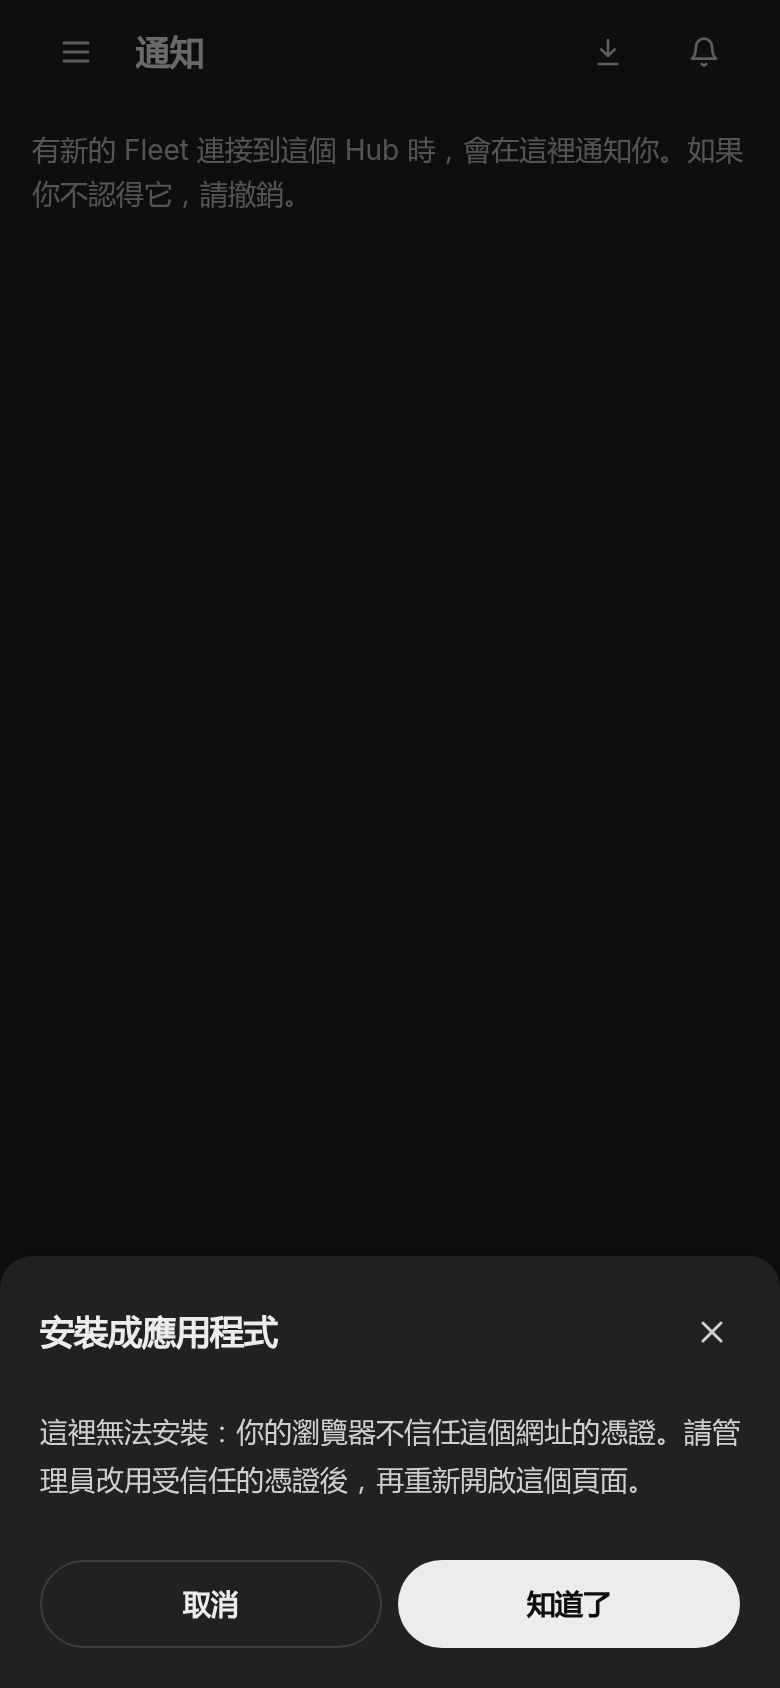
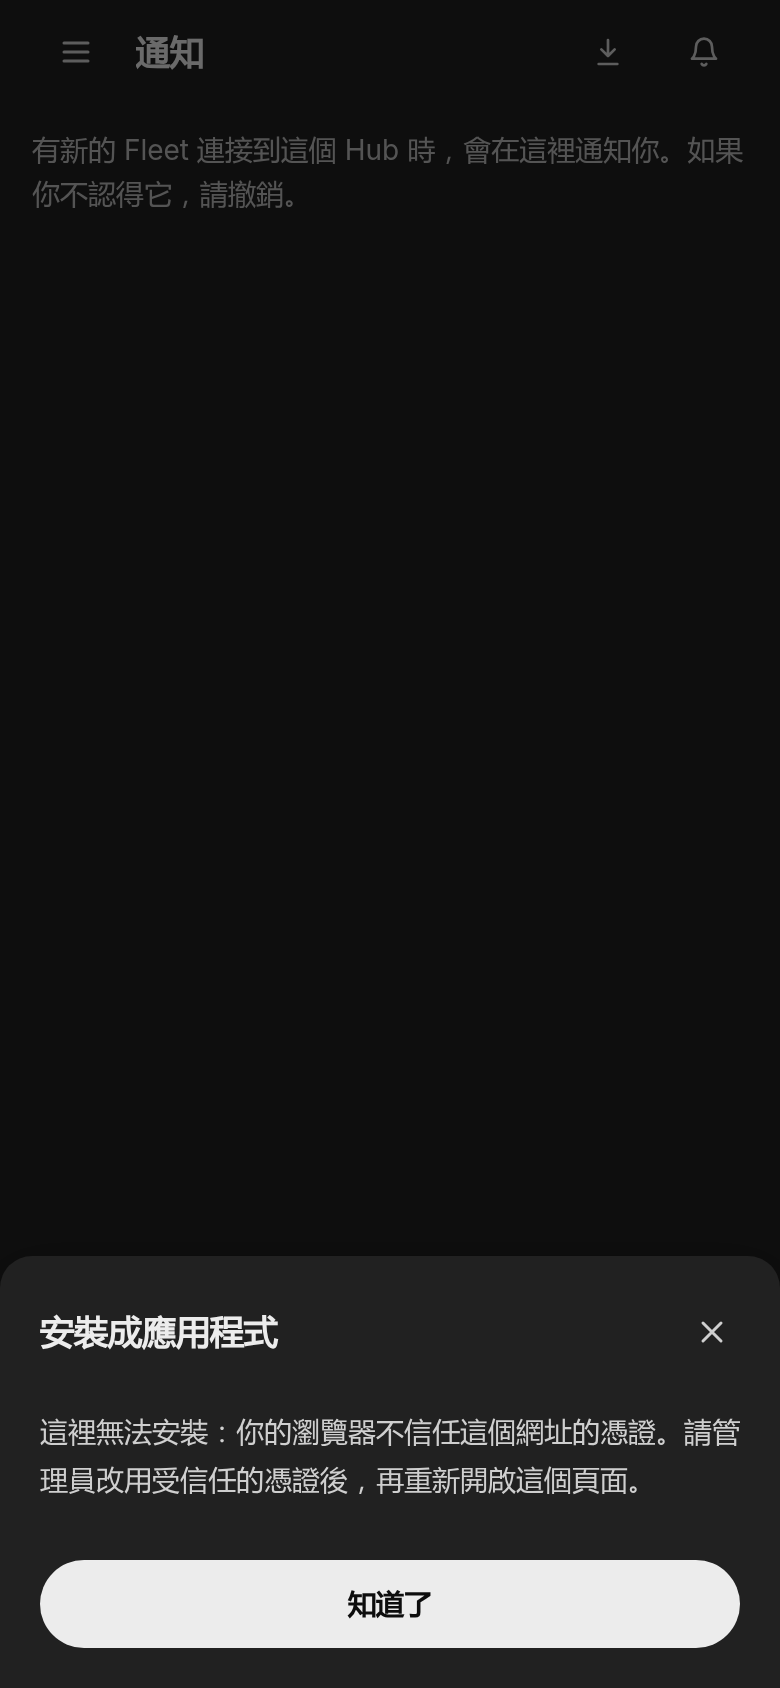
feat(web): install the dashboard and the Hub as an app — a service worker that caches nothing, and an Install hint that says why where it can't (S-255)

Changed region(s): [[0.0308, 0.9242, 0.5538, 0.9858], [0.6769, 0.9242, 0.7692, 0.955]]

diff --git a/src/ui/shared/ui-confirm.js b/src/ui/shared/ui-confirm.js
@@ -14,11 +14,12 @@ let seq = 0;
  * Ask. Resolves true for the confirm button, false for Cancel, Esc, the backdrop or ×.
  * `message` may hold blank lines (paragraphs); it is shown as text.
  */
-export function confirmDialog({ title, message, confirmLabel, danger = false, more = null, even = false } = {}) {
+/** S-255: `notice` — words to read, not a question: one button, no Cancel (Esc, the backdrop and × still close it). */
+export function confirmDialog({ title, message, confirmLabel, danger = false, more = null, even = false, notice = false } = {}) {
   return new Promise((resolve) => {
     // M-3387: `more` { label, lines } — a list closed under the text until opened (e.g. every tool name a switch stops).
     const extra = more && more.label && Array.isArray(more.lines) && more.lines.length ? { label: String(more.label), lines: more.lines.map(String) } : null;
-    const item = { id: ++seq, title: title || t("app.confirmTitle"), message: String(message || ""), confirmLabel: confirmLabel || t("app.confirmOk"), danger, more: extra, even: !!even, resolve };
+    const item = { id: ++seq, title: title || t("app.confirmTitle"), message: String(message || ""), confirmLabel: confirmLabel || t("app.confirmOk"), danger, more: extra, even: !!even, notice: !!notice, resolve };
     confirmStore.set((s) => ({ queue: [...s.queue, item] }));
   });
 }
@@ -39,7 +40,7 @@ export function ConfirmHost() {
   const paragraphs = q.message.split(/\n{2,}/);
   // `even`: the two buttons share the row's width on every screen (as a phone's bottom sheet always does).
   return html`<${Dialog} key=${q.id} title=${q.title} cls=${q.even ? "dlg-even" : ""} onClose=${() => answerConfirm(q.id, false)}
-    actions=${html`<button type="button" class="btn" onClick=${() => answerConfirm(q.id, false)}>${t("app.cancel")}</button>
+    actions=${html`${q.notice ? null : html`<button type="button" class="btn" onClick=${() => answerConfirm(q.id, false)}>${t("app.cancel")}</button>`}
       <button type="button" class=${`btn ${q.danger ? "btn-danger" : "btn-primary"}`} data-confirm="yes" onClick=${() => answerConfirm(q.id, true)}>${q.confirmLabel}</button>`}>
     ${paragraphs.map((p, i) => html`<p key=${i} class="confirm-text">${p}</p>`)}
     ${q.more ? html`<details class="confirm-more"><summary>${q.more.label}</summary><ul>${q.more.lines.map((l, i) => html`<li key=${i} class="mono">${l}</li>`)}</ul></details>` : null}

diff --git a/tests/web-install-app-s255.test.ts b/tests/web-install-app-s255.test.ts
@@ -107,13 +107,27 @@ describe("the hint", () => {
       for (const state of ["none", "installed"]) { m.installStore.set({ state }); await settle(2); expect(pg.root.querySelector(".n-install")).toBeNull(); }
     } finally { i18n.setLang("en", { store: false }); }
   });
-  it("the Hub header button: says why in the app's own dialog when it can't install", async () => {
+  it("the Hub header button: says why in the app's own dialog when it can't install — one button, no Cancel", async () => {
     const { pg } = await mount("untrusted", "button");
+    const confirm = await import("/assets/ui-confirm.js") as any;
     const asked: string[] = []; (globalThis as any).confirm = (msg: string) => { asked.push(msg); return true; };
     try {
       fire(pg.root.querySelector(".hub-install"), "click"); await settle(4);
       expect(asked).toHaveLength(1);
       expect(asked[0]).toContain("Ask your administrator for a trusted certificate");
+      expect(confirm.confirmStore.get().queue).toEqual([]);
     } finally { (globalThis as any).confirm = undefined; }
   });
+});
+it("a notice dialog has one button and no Cancel; a question keeps both", async () => {
+  const pg = page(); pages.push(pg);
+  const c = await import("/assets/ui-confirm.js") as any;
+  (globalThis as any).confirm = undefined;
+  await pg.mount(h(c.ConfirmHost, {}));
+  const notice = c.confirmDialog({ title: "T", message: "Words to read.", confirmLabel: "OK", notice: true }); await settle(2);
+  expect([...pg.root.querySelectorAll("dialog button.btn")].map((b: any) => b.textContent.trim())).toEqual(["OK"]);
+  fire(pg.root.querySelector('[data-confirm="yes"]'), "click"); await expect(notice).resolves.toBe(true); await settle(2);
+  const question = c.confirmDialog({ message: "Sure?", confirmLabel: "Go" }); await settle(2);
+  expect([...pg.root.querySelectorAll("dialog button.btn")].map((b: any) => b.textContent.trim())).toEqual(["Cancel", "Go"]);
+  fire(pg.root.querySelector('[data-confirm="yes"]'), "click"); await question;
 });

diff --git a/src/ui/shared/app-install.js b/src/ui/shared/app-install.js
@@ -107,7 +107,7 @@ export function InstallAppButton() {
   const label = ti("title"), title = state === "available" ? `${label} — ${ti("available")}` : `${label} — ${ti(state)}`;
   const click = () => {
     if (state === "available") { void promptInstall(); return; }
-    void confirmDialog({ title: label, message: ti(state), confirmLabel: ti("ok") });
+    void confirmDialog({ title: label, message: ti(state), confirmLabel: ti("ok"), notice: true });
   };
   return html`<button type="button" class="icon-btn hub-install" data-install=${state} aria-label=${label} title=${title} onClick=${click}>
     <${Icon} name="download" size=${16} /></button>`;

diff --git a/docs/evidence/pwa-install-s255/README.md b/docs/evidence/pwa-install-s255/README.md
@@ -1,0 +1,44 @@
+# S-255: install the dashboard and the Hub as an app
+
+Base: release/2.3.5-alpha (b9663fb3e).
+
+**What changed**
+- **`/sw.js`** (web-icons.ts `SERVICE_WORKER`) is served before sign-in on the dashboard, the public link and the Hub, with `no-cache`.
+  - It has **no fetch handler and opens no cache**. No API answer, chat, file or page is stored or answered by it, so signing out, a revoked session or an updated page behave as before.
+  - It is the minimal worker the installed app (and later closed-tab notifications, S-257) needs.
+- **`app-install.js`** (shared, started once by app.js on signed-in pages, never a guest's or a reader's) registers it at `/` and keeps the browser's install offer:
+  - Chrome/Edge on localhost or a trusted https address: an **Install** button opens the browser's own dialog.
+  - Safari on iPhone/iPad: "In Safari, tap Share, then Add to Home Screen."
+  - An https address whose certificate the browser doesn't trust (a Hub's self-signed one): Chromium refuses the worker (SecurityError). The page says why and asks for a trusted certificate. **No prompt that fails.**
+  - A plain-http LAN address: says to use localhost or https.
+  - Already running as the app, or a browser that offers nothing: no hint.
+- **Where it shows:**
+  - Fleet: Needs you → "This device", under the notification row.
+  - Hub: a download-arrow button beside the bell in the Hub's header tools.
+
+**Evidence** (`scripts/manual/pwa-install-s255/capture.mts`, `result.json`). Owned rigs, headless Chromium, synthetic people; no Fleet, CLI or model.
+
+| Check | Result |
+| --- | --- |
+| Dashboard installable (CDP `Page.getInstallabilityErrors`, persistent profile) | `[]`: installable on localhost |
+| `/sw.js` registered on the dashboard | scope `http://127.0.0.1:<port>/` |
+| Sign out with the worker installed | logout 200, then `/auth/sessions` answers 401 |
+| Hub over https with a self-signed certificate (browser warning clicked through) | **observed**: registration refused, 0 registrations, state `untrusted`; not simulated |
+
+| Case | Capture |
+| --- | --- |
+| Fleet, desktop, light, EN: This device → Install as an app | [fleet-desk-light-en](fleet-desk-light-en.png) |
+| Fleet, phone, dark, zh-TW | [fleet-phone-dark-zh-TW](fleet-phone-dark-zh-TW.png) |
+| Hub, desktop, light, EN: header button / why | [button](hub-desk-light-en-button.png) · [why](hub-desk-light-en-why.png) |
+| Hub, phone, dark, zh-TW: header button / why | [button](hub-phone-dark-zh-TW-button.png) · [why](hub-phone-dark-zh-TW-why.png) |
+
+**Limits**
+- Headless Chromium never draws its own install UI. On the dashboard, the page's real `beforeinstallprompt` listener was fed one synthetic event to show the Install row; Chromium's own installability verdict is the CDP line above.
+- A Hub with a trusted certificate wasn't captured: that needs a CA the browser trusts. There the browser makes the real offer, and the button is the dashboard's Install path.
+- Real Safari on iPhone wasn't tried. The words come from the iOS Safari user-agent case in the tests.
+
+Tests: `tests/web-install-app-s255.test.ts`, 10 cases:
+- the worker: served pre-auth, `no-cache`, no fetch or cache code;
+- the offer and install, a dismissed offer, a certificate error giving `untrusted`, plain http giving `insecure`, iOS Safari, an installed window;
+- the Fleet row in both locales and the Hub dialog.
+A notice dialog (ui-confirm `notice: true`) has one button; a question keeps Cancel. Neighbouring web/i18n/Hub/confirm/sign-in tests: 1877 pass across 113 files. Turning off the certificate branch fails its case.
